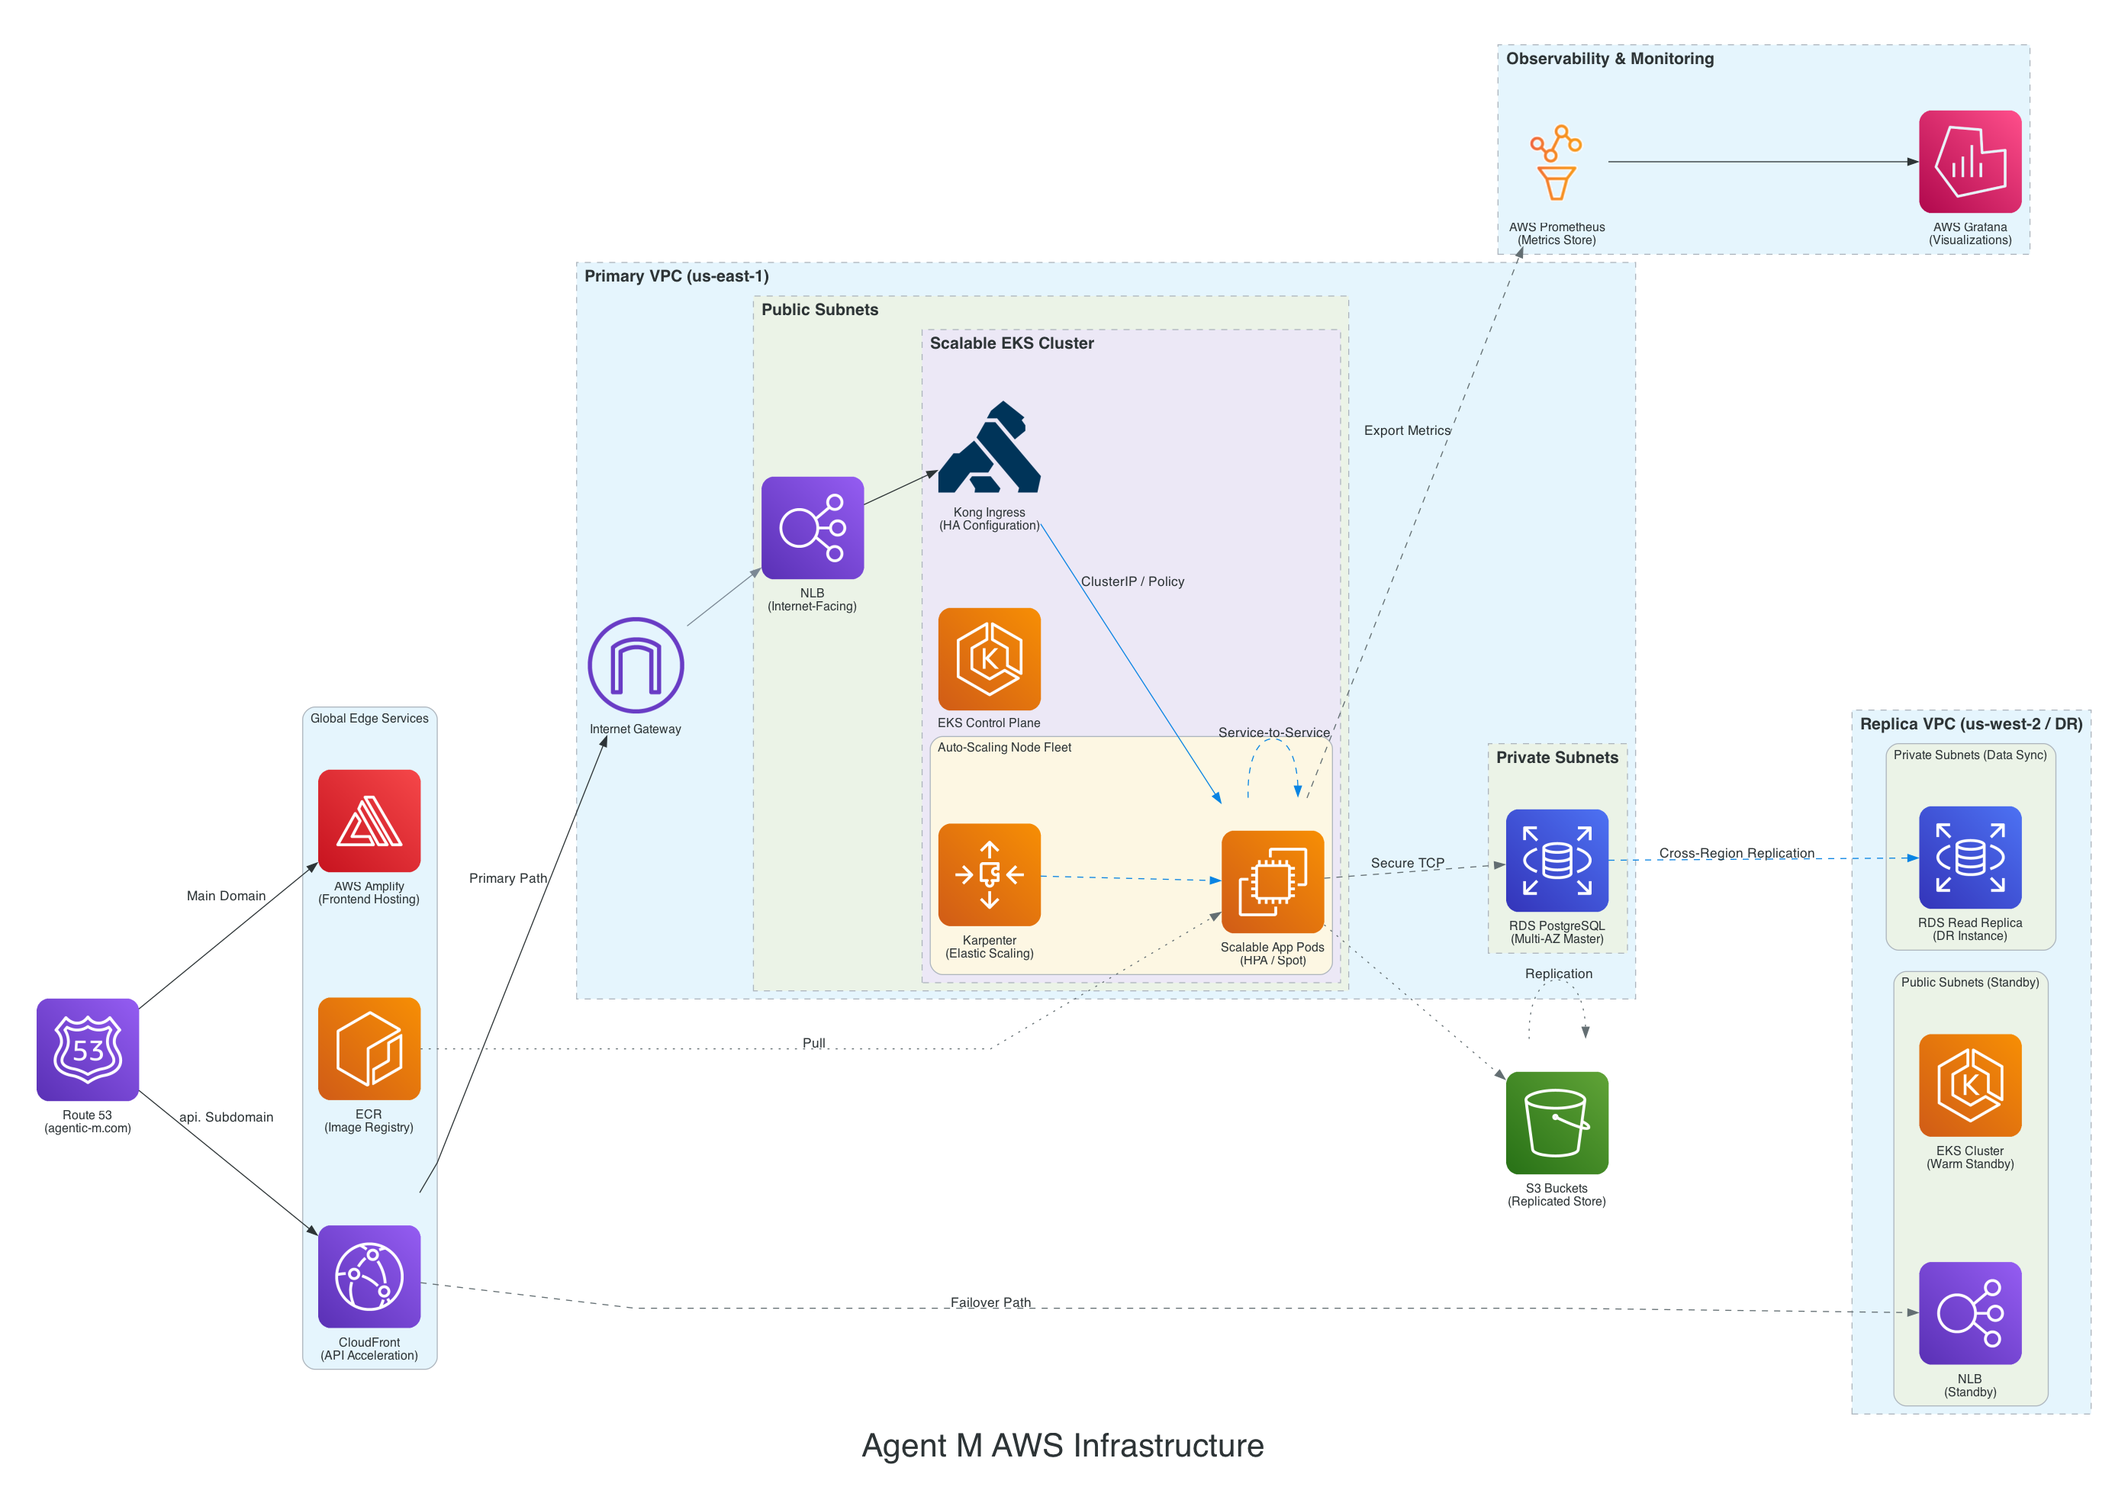
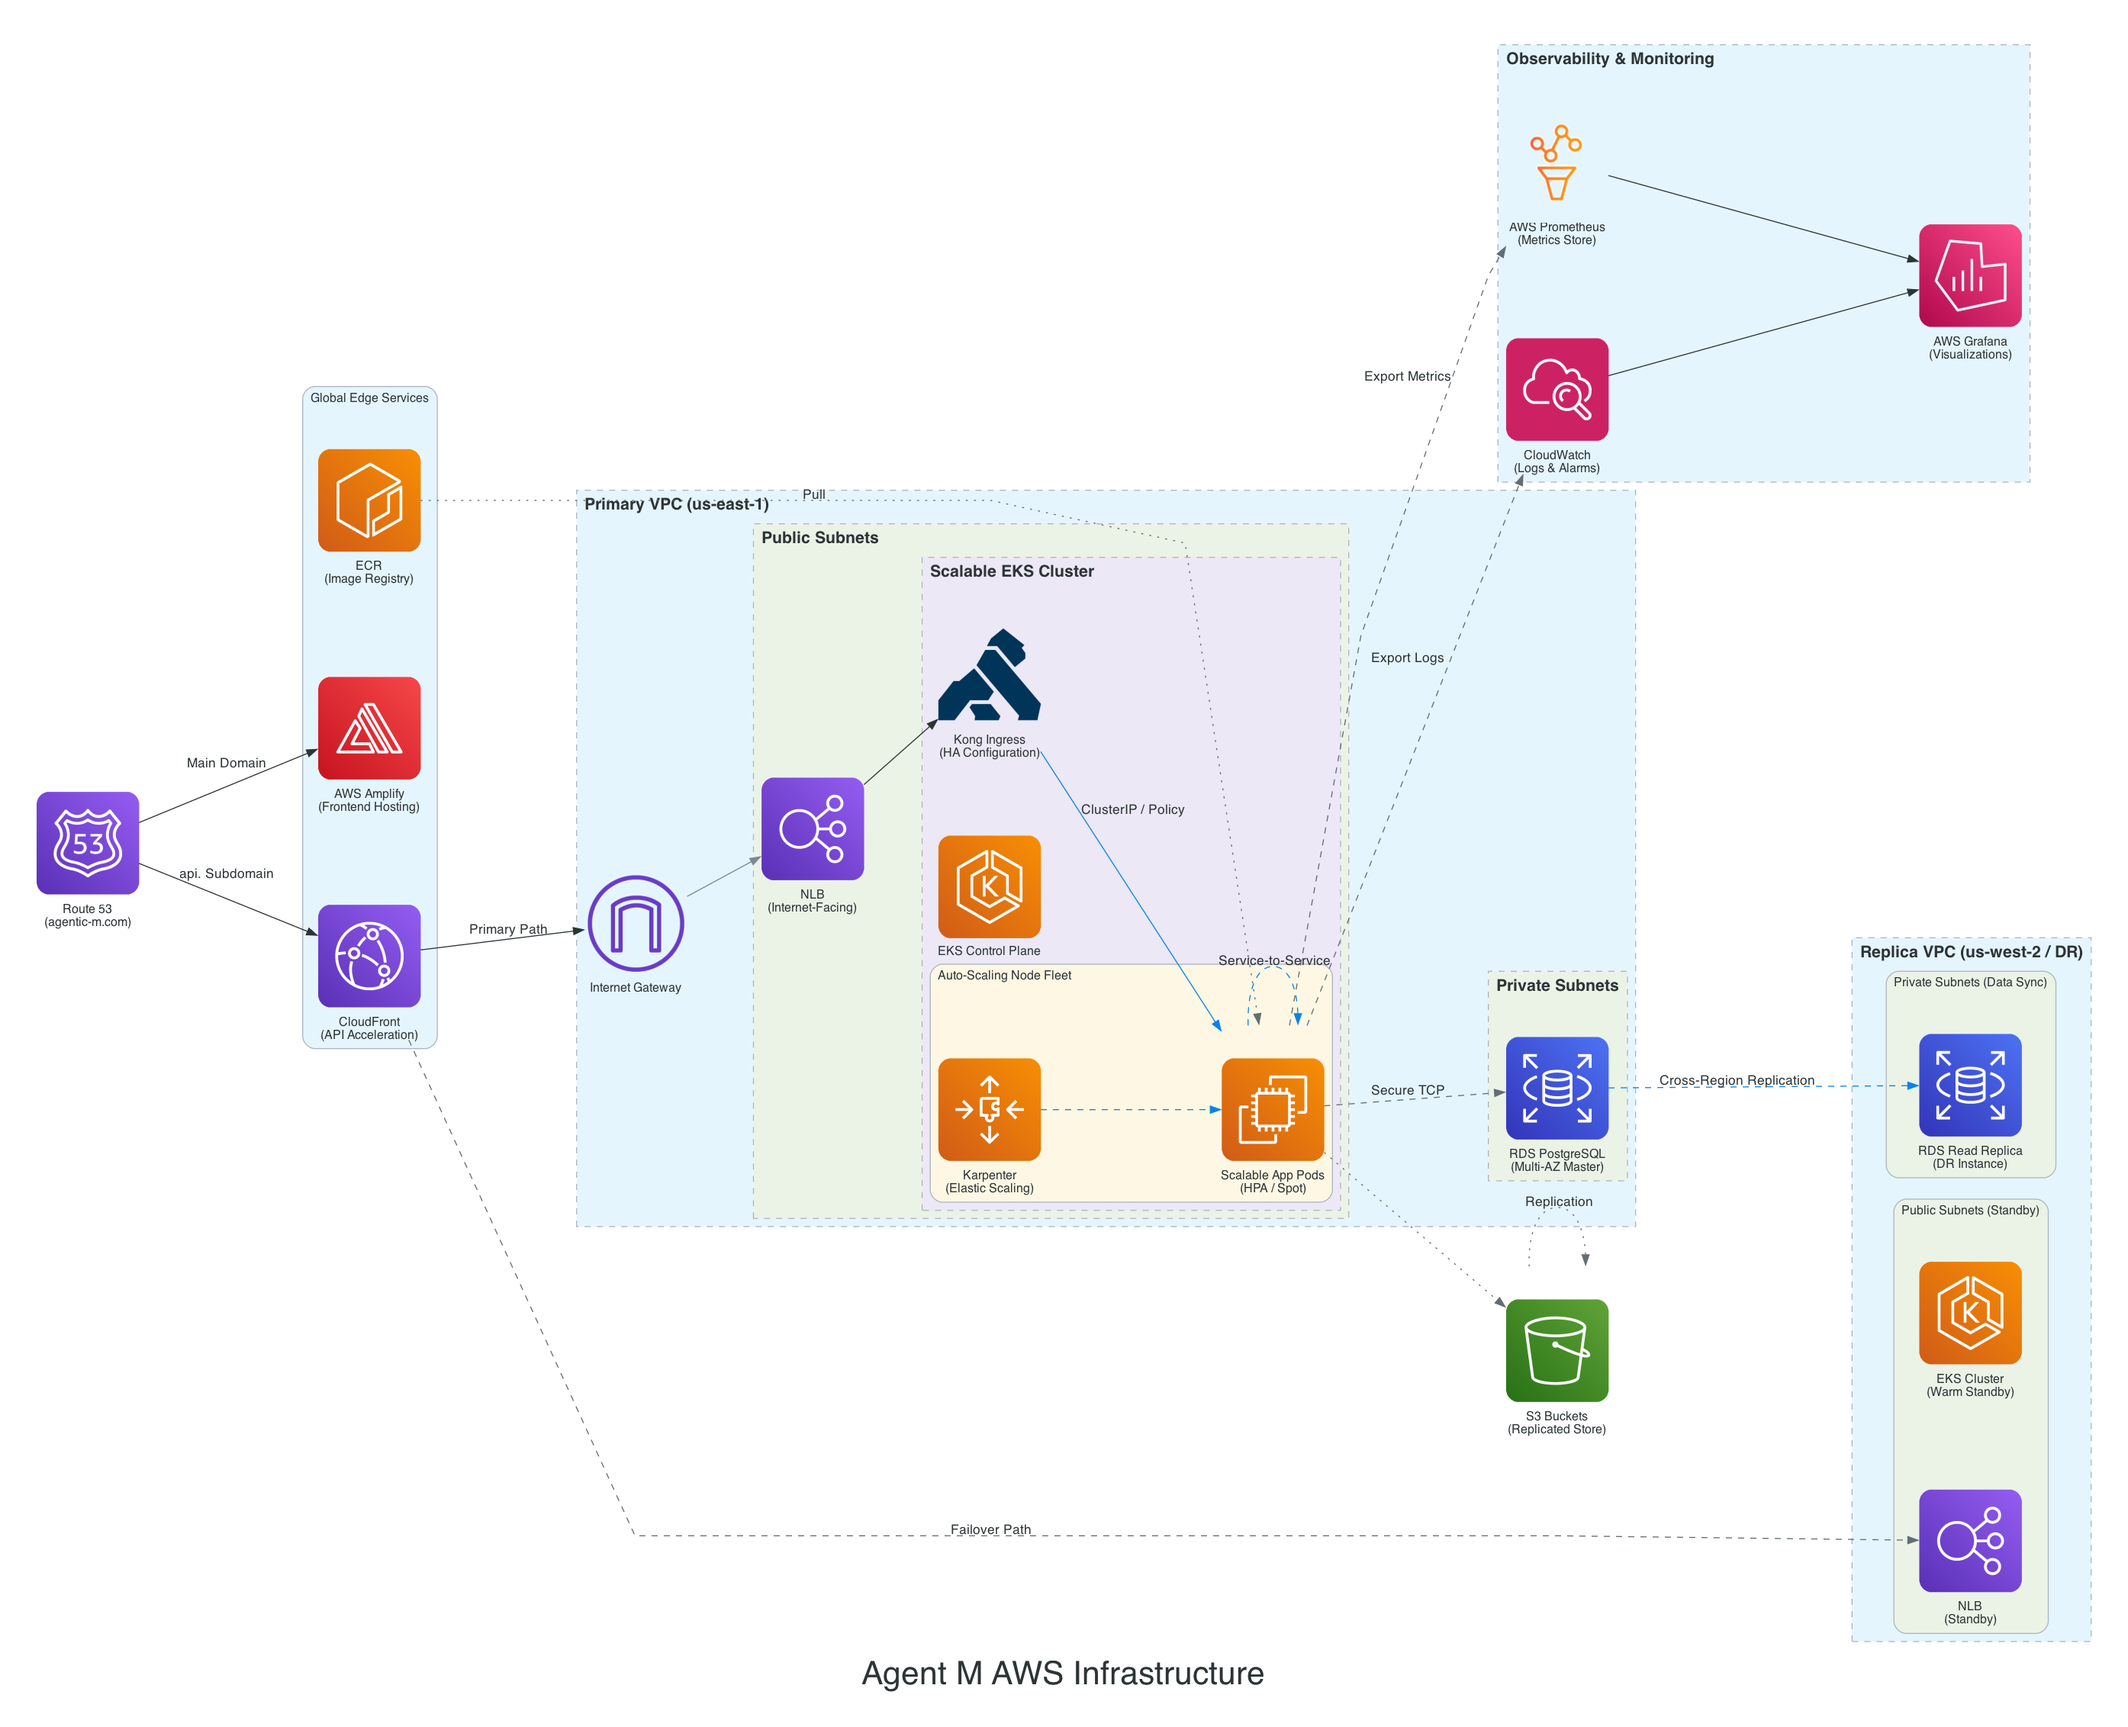
infra: add monitoring

diff --git a/aws_infrastructure.py b/aws_infrastructure.py
@@ -8,7 +8,7 @@
 from diagrams import Cluster, Diagram, Edge
 from diagrams.aws.compute import EC2, EKS, AutoScaling, EC2ContainerRegistry
 from diagrams.aws.database import RDS
-from diagrams.aws.management import AmazonManagedGrafana, AmazonManagedPrometheus
+from diagrams.aws.management import AmazonManagedGrafana, AmazonManagedPrometheus, Cloudwatch
 from diagrams.aws.mobile import Amplify
 from diagrams.aws.network import (
     ELB,
@@ -97,6 +97,7 @@ with Diagram(
 
     with Cluster("Observability & Monitoring", graph_attr=cluster_attr):
         prometheus = AmazonManagedPrometheus("AWS Prometheus\n(Metrics Store)")
+        cloudwatch = Cloudwatch("CloudWatch\n(Logs & Alarms)")
         grafana = AmazonManagedGrafana("AWS Grafana\n(Visualizations)")
 
     # --- Precise Route & Logical Connections ---
@@ -140,4 +141,6 @@ with Diagram(
 
     # 7. Observability Flow
     app_nodes >> Edge(color=COLOR_SECONDARY, style="dashed", label=" Export Metrics") >> prometheus
+    app_nodes >> Edge(color=COLOR_SECONDARY, style="dashed", label=" Export Logs") >> cloudwatch
     prometheus >> Edge(color=COLOR_PRIMARY) >> grafana
+    cloudwatch >> Edge(color=COLOR_PRIMARY) >> grafana
